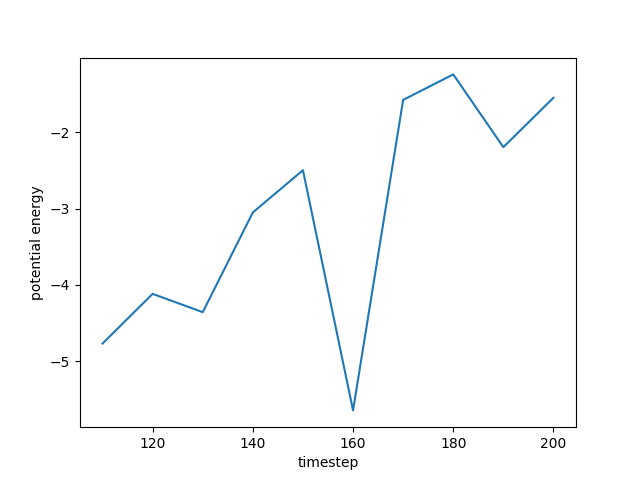
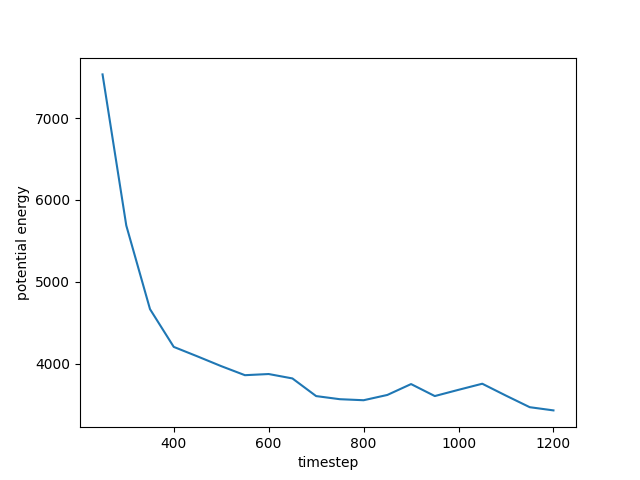
Added some analysis tools

diff --git a/project/MD/analyser.py b/project/MD/analyser.py
@@ -6,85 +6,14 @@ from PIL import Image
 import os
 
 import json
-from scipy.stats import gaussian_kde
-
-# orientational order parameter-  use it
-# second order legendre polynomial, find preferred direction 
-# Calculate entropy of a single frame
-def CalculateEntropy(positions, positionsGrid, shape):
-    kde = gaussian_kde(positions.T, bw_method = "scott")
-    
-    density = kde(positionsGrid).reshape(shape)
-
-    entropy = -density * np.log(density + 1e-10)
-    entropy = entropy / np.max(entropy)
-
-    return(entropy.ravel())
-
-
-
-# Make a trajectory png for a single frame in 3d
-def TrajFrame(positions, types, frameDir, timestep, colourmap, Lx, Ly, Lz, s2, allRodPositions):
-    fig = plt.figure()
-    ax = fig.add_subplot(111, projection="3d")
-
-    # Extract x, y, z positions
-    x = positions[:, 0]
-    y = positions[:, 1]
-    z = positions[:, 2]
-
-    normalisedTypes = types / np.max(types)  # Normalize tags to fit in the colormap range
-    
-    # Assign colors based on the normalized tags
-    colours = colourmap(normalisedTypes)
-    sizes = normalisedTypes*12 + 4
-
-
-    # Scatter plot for positions
-    ax.scatter(x, y, z, s=sizes, c=colours, marker="o")
-    for rodPositions in allRodPositions:
-        xRod, yRod, zRod = rodPositions
-
-        dx = np.abs(np.diff(xRod))
-        dy = np.abs(np.diff(yRod))
-        dz = np.abs(np.diff(zRod))
-
-        mask = (dx < Lx/2) & (dy < Ly/2) & (dz < Lz/2)
-        validIndices = np.where(mask)[0]
-
-        for idx in validIndices:
-            ax.plot(
-                    [xRod[idx], xRod[idx+1]],
-                    [yRod[idx], yRod[idx+1]],
-                    [zRod[idx], zRod[idx+1]],
-                    linewidth=2, color="black")
-
-        #ax.plot(rodPositions[0], rodPositions[1], rodPositions[2], linewidth=2, color="black")
-
-    # Set plot limits
-    ax.set_xlim([-Lx/2, Lx/2])
-    ax.set_ylim([-Ly/2, Ly/2])
-    ax.set_zlim([-Lz/2, Lz/2])
-
-    # Labels for the axes
-    ax.set_xlabel("X Position")
-    ax.set_ylabel("Y Position")
-    ax.set_zlabel("Z Position")
-
-    ax.set_title(f"Order Parameter: {s2}", size=10)
-
-    # Save the current plot as an image
-    frameFilename = os.path.join(frameDir, f"frame_{timestep}.png")
-    plt.savefig(frameFilename)
-    plt.close(fig)
-
-    return(frameFilename)
+from scipy.spatial.distance import pdist
 
 
 
 def ComputeOrderParameter(positions, numSolvent, numRods, rodLength):
     rodAxes = np.zeros((numRods, 3))
     allRodPositions = np.zeros((numRods, 3, rodLength))
+
     for rodNum in range(numRods):
         rodStartTag = numSolvent + rodNum * rodLength
         rodEndTag = rodStartTag + rodLength
@@ -93,16 +22,35 @@ def ComputeOrderParameter(positions, numSolvent, numRods, rodLength):
         allRodPositions[rodNum] = rodPositions.T
         rodAxis = rodPositions[-1] - rodPositions[0]
 
-        rodAxis /= np.linalg.norm(rodAxis)
+        rodAxis /= np.linalg.norm(rodAxis)  # Normalise rod axis
         rodAxes[rodNum] = rodAxis
 
+    # Compute director, mean rod direction
     director = np.mean(rodAxes, axis=0)
-    director /= np.linalg.norm(director)
+    director /= np.linalg.norm(director)  
     
-    cosThetaSquared = (rodAxes @ director) **2
-    s2 = np.round((3/2) * np.mean(cosThetaSquared) - 0.5, 6)
+    # Compute cos^2(theta) for each rod
+    cosThetaSquared = (rodAxes @ director) ** 2
 
-    return(s2, allRodPositions)
+    # Compute second order polynomial for each rod
+    P2Values = (3/2) * cosThetaSquared - 0.5
+
+    # Compute overall order parameter
+    S2 = np.round(np.mean(P2Values), 6)
+
+    return(S2, P2Values, allRodPositions)
+
+
+
+def ComputeMSD(allRodPositions):
+
+    rodParticles = allRodPositions.transpose(0,2,1).reshape(-1,3)
+    
+    distances = pdist(rodParticles, metric="euclidean")
+    msd = np.mean(distances**2)
+
+    return msd
+
 
 
 def ExtractData(metadataFilename, h5Filename):
@@ -119,40 +67,19 @@ def ExtractData(metadataFilename, h5Filename):
         params = json.load(f)
     f.close()
 
-    Lx, Ly, Lz = params["Lx"], params["Ly"], params["Lz"]
-    numSolvent = params["numSolvent"]
-    numRods = params["numRods"]
-    rodLength = params["rodLength"]
-    rodSpacing = params["rodSpacing"]
-
-    # Parameters editable here, but inherited initially from init.py
-    dt = params["dt"]  # Time step
-    dtWarmup = params["dtWarmup"]
-    drivingForceMagnitude = params["dtWarmup"] # Magnitude of force driving rods forward
-    warmupLength = params["warmupLength"]  # Number of timesteps to tune forces to prevent extreme initial velocities
-    simLength = params["simLength"]  # Number of timesteps for run of simulation
-    outStep = params["outStep"]  # Periodicity of output frames
-    kBond = params["kBond"]  # Strength of force between particles in rod
-    kAngle = params["kAngle"]  # Strength of force keeping particles in rod aligned
-    sigma = params["sigma"]  # Distance over which the leonard jones potential spreads
-    kT = params["kT"]  # Initial kinetic energy given to system after warmup
-    gammaSolvent = params["gammaSolvent"]  # Slight resistance given to solvent particles
-    gammaRod = params["gammaRod"]  # Slight resistance given to rod particles
-
-    ssei = params["ssei"]
-    rsei = params["rsei"]
-    rrei = params["rrei"]
-    ssef = params["ssef"]
-    rsef = params["rsef"]
-    rref = params["rref"]
-
     return timesteps, params
 
 
-def Animate(h5Filename, trajGifFilename, hmGifFilename, timesteps, params):
+
+def Iterate(h5Filename, trajGifFilename, hmGifFilename, timesteps, params):
     # Open the HDF5 file and read the positions
     f = h5py.File(h5Filename, "r")
     
+    msdValues = np.zeros(len(timesteps))
+    S2Values = np.zeros(len(timesteps))
+
+    index = 0
+
     for timestep in timesteps:
         # Extract the particle positions for this timestep
         dataset_name = f"step_{timestep}"
@@ -160,13 +87,38 @@ def Animate(h5Filename, trajGifFilename, hmGifFilename, timesteps, params):
 
         [numSolvent, numRods, rodLength] = params["numSolvent"], params["numRods"], params["rodLength"]
 
-        s2, allRodPositions = ComputeOrderParameter(positions, numSolvent, numRods, rodLength)
-        # Generatre frame for trajectory
-        #trajFilename = TrajFrame(positions, types, trajFrameDir, timestep, colourmap, Lx, Ly, Lz, s2, allRodPositions)
-        # Calculate entropy in 3d grid of the frame
-        #entropyAllFrames.append(CalculateEntropy(positions, positionsGrid, gridX.shape))
- 
-                
+        S2, P2Values = allRodPositions = ComputeOrderParameter(positions, numSolvent, numRods, rodLength)
+        msd = ComputeMSD(allRodPositions)
+
+        msdValues[index], S2Values[index] = msd, S2
+
+        index += 1
+
+    # Correlation tells if aigned rods move differently from unaligned
+    # If correlation > 0, more aligned rods move more, and move less if correlation < 0
+    correlation = np.corrcoef(msdValues, S2Values)[0,1]
+
+    return (msdValues, S2Values, correlation)
+
+
+
+def Plot(timesteps, msdValues, S2Values):
+
+    plt.plot(timesteps, msdValues, color="blue", alpha=0.6)
+    plt.xlabel("Timestep")
+    plt.ylabel("Mean Squared Displacement")
+    plt.title("MSD over time")
+    plt.show()
+    plt.savefig("MSD.png")
+    plt.close()
+
+    plt.plot(timesteps, S2Values, color="blue", alpha=0.6)
+    plt.xlabel("Timestep")
+    plt.ylabel("Order Parameter")
+    plt.title("Order Parameter over time")
+    plt.show()
+    plt.savefig("S2.png")
+
 
 
 def ViewLog(logFilename):
@@ -191,9 +143,14 @@ def main(metadataFilename, h5Filename, trajGifFilename, hmGifFilename, logFilena
 
     timesteps, params = ExtractData(metadataFilename, h5Filename)
 
-    Animate(h5Filename, trajGifFilename, hmGifFilename, timesteps, params)
+    msdValues, S2Values, correlation= Iterate(h5Filename, trajGifFilename, hmGifFilename, timesteps, params)
+
+    print(f"Correlation: {correlation}")
+
+    Plot(timesteps, msdValues, S2Values)
 
     ViewLog(logFilename)
+
 
 # Define input filenames
 metadataFilename = "simulationMetadata.json"
